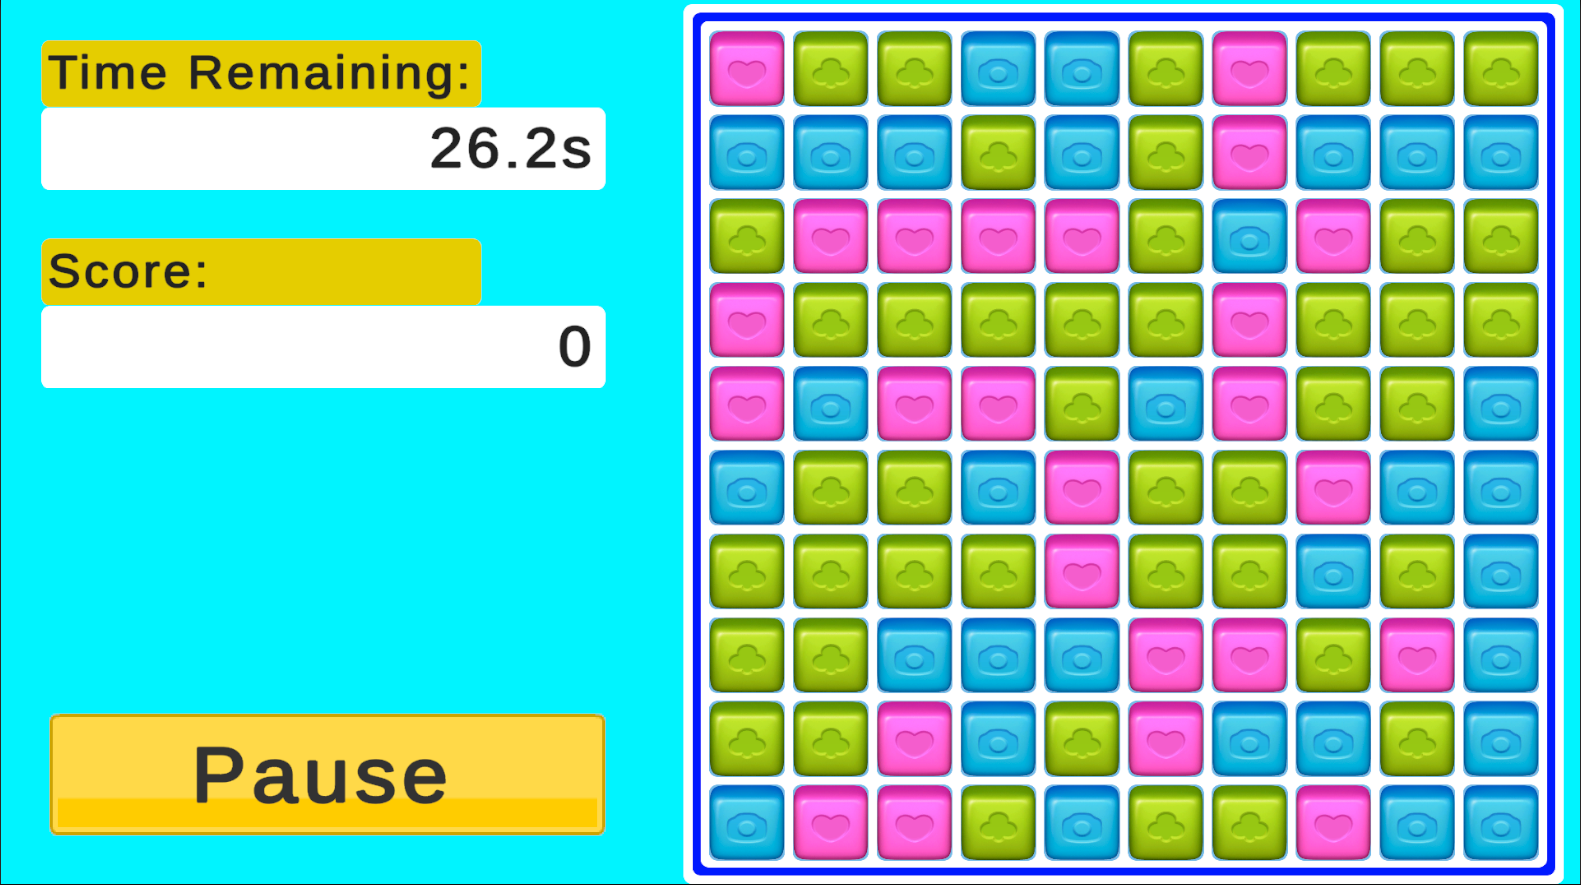
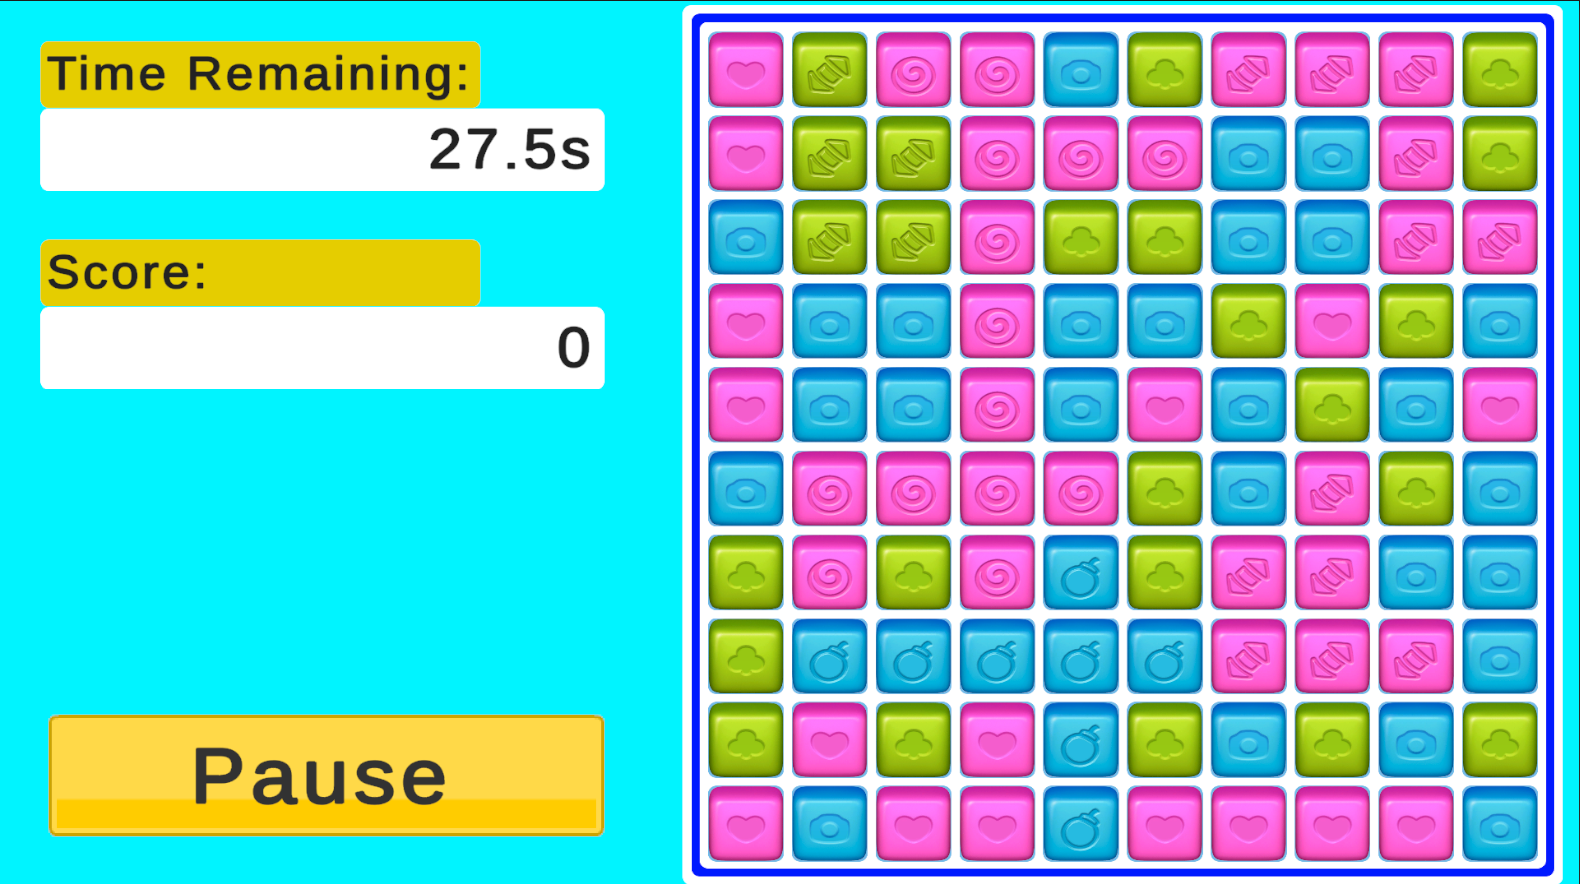
Fix screenshot

diff --git a/_portfolio/portfolio-1.md b/_portfolio/portfolio-1.md
@@ -45,6 +45,9 @@ Developed a dynamic **Tile Blast** puzzle game featuring intuitive UI, engaging 
   - **Bombs**: Explode in a 3×3 radius.  
   - **Missiles**: Clear an entire row or column.  
   - **Black Holes**: Remove all blocks on the board.  
+
+![Tile Blast Game Screenshot](/images/Tile_Blast_SpecialBlocks.png)
+
 - **Cluster Matching & Destruction**:  
   - Detects and removes connected blocks using efficient algorithms.  
   - Animates destruction effects to enhance engagement.  
